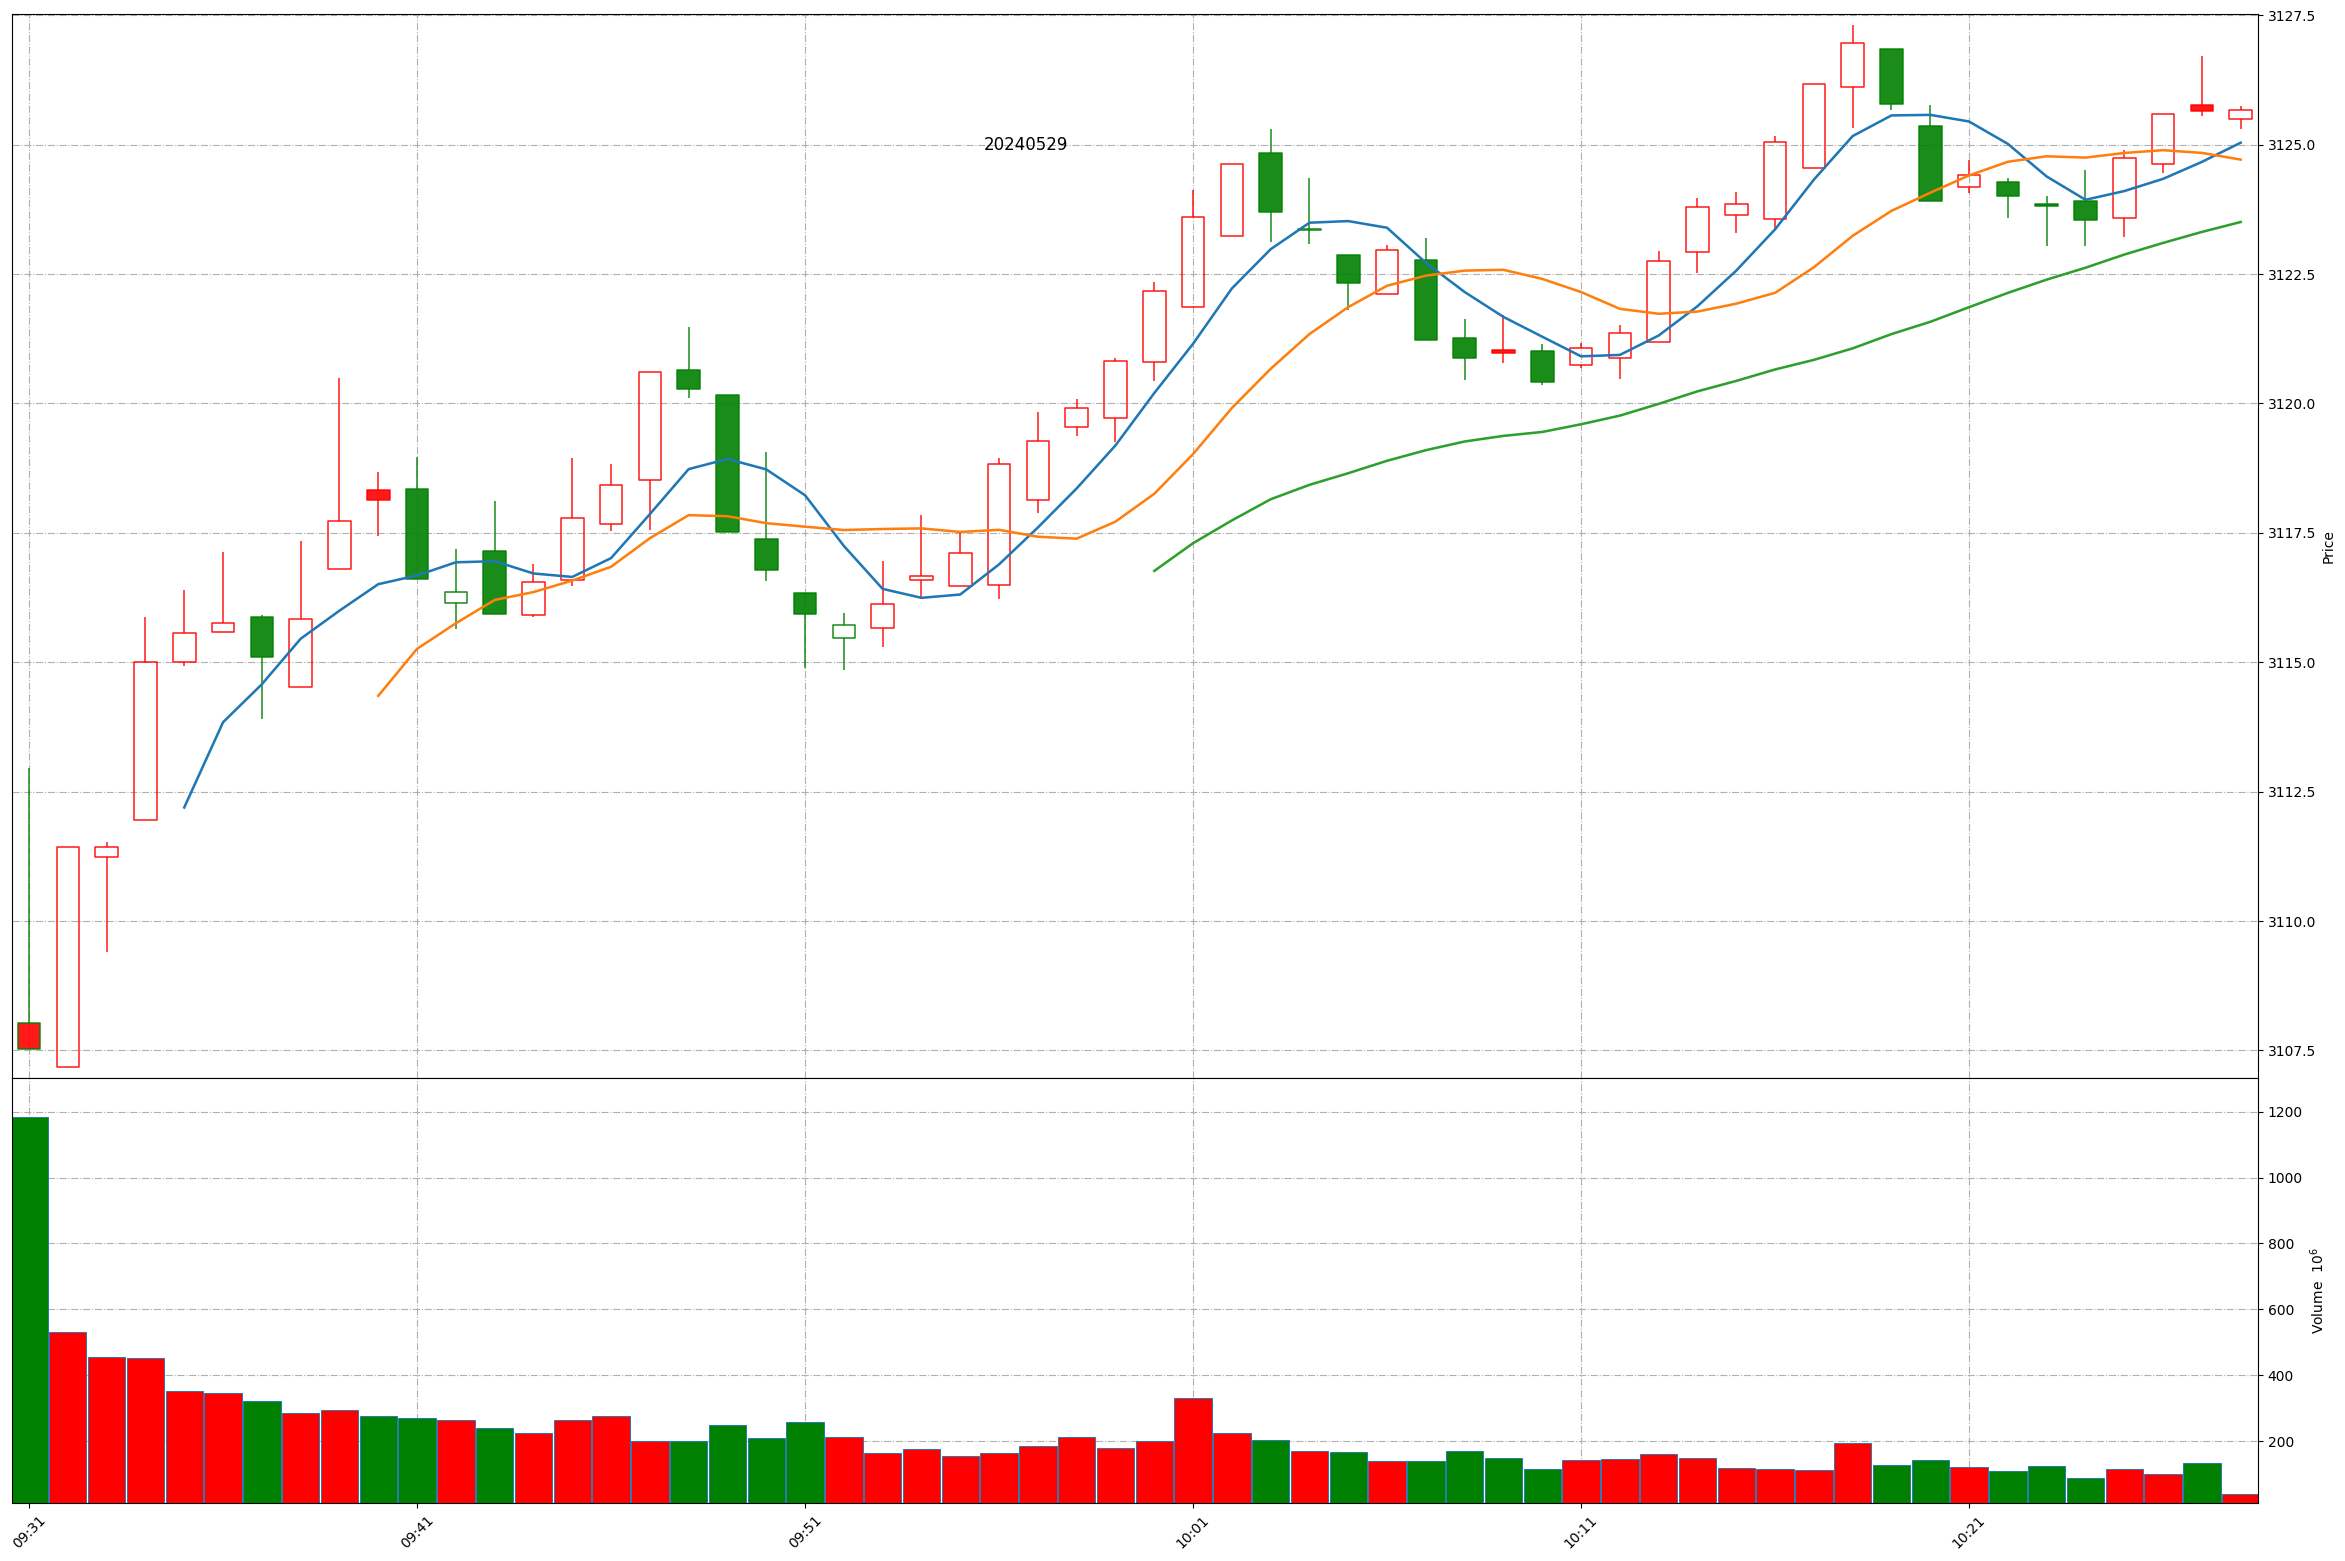
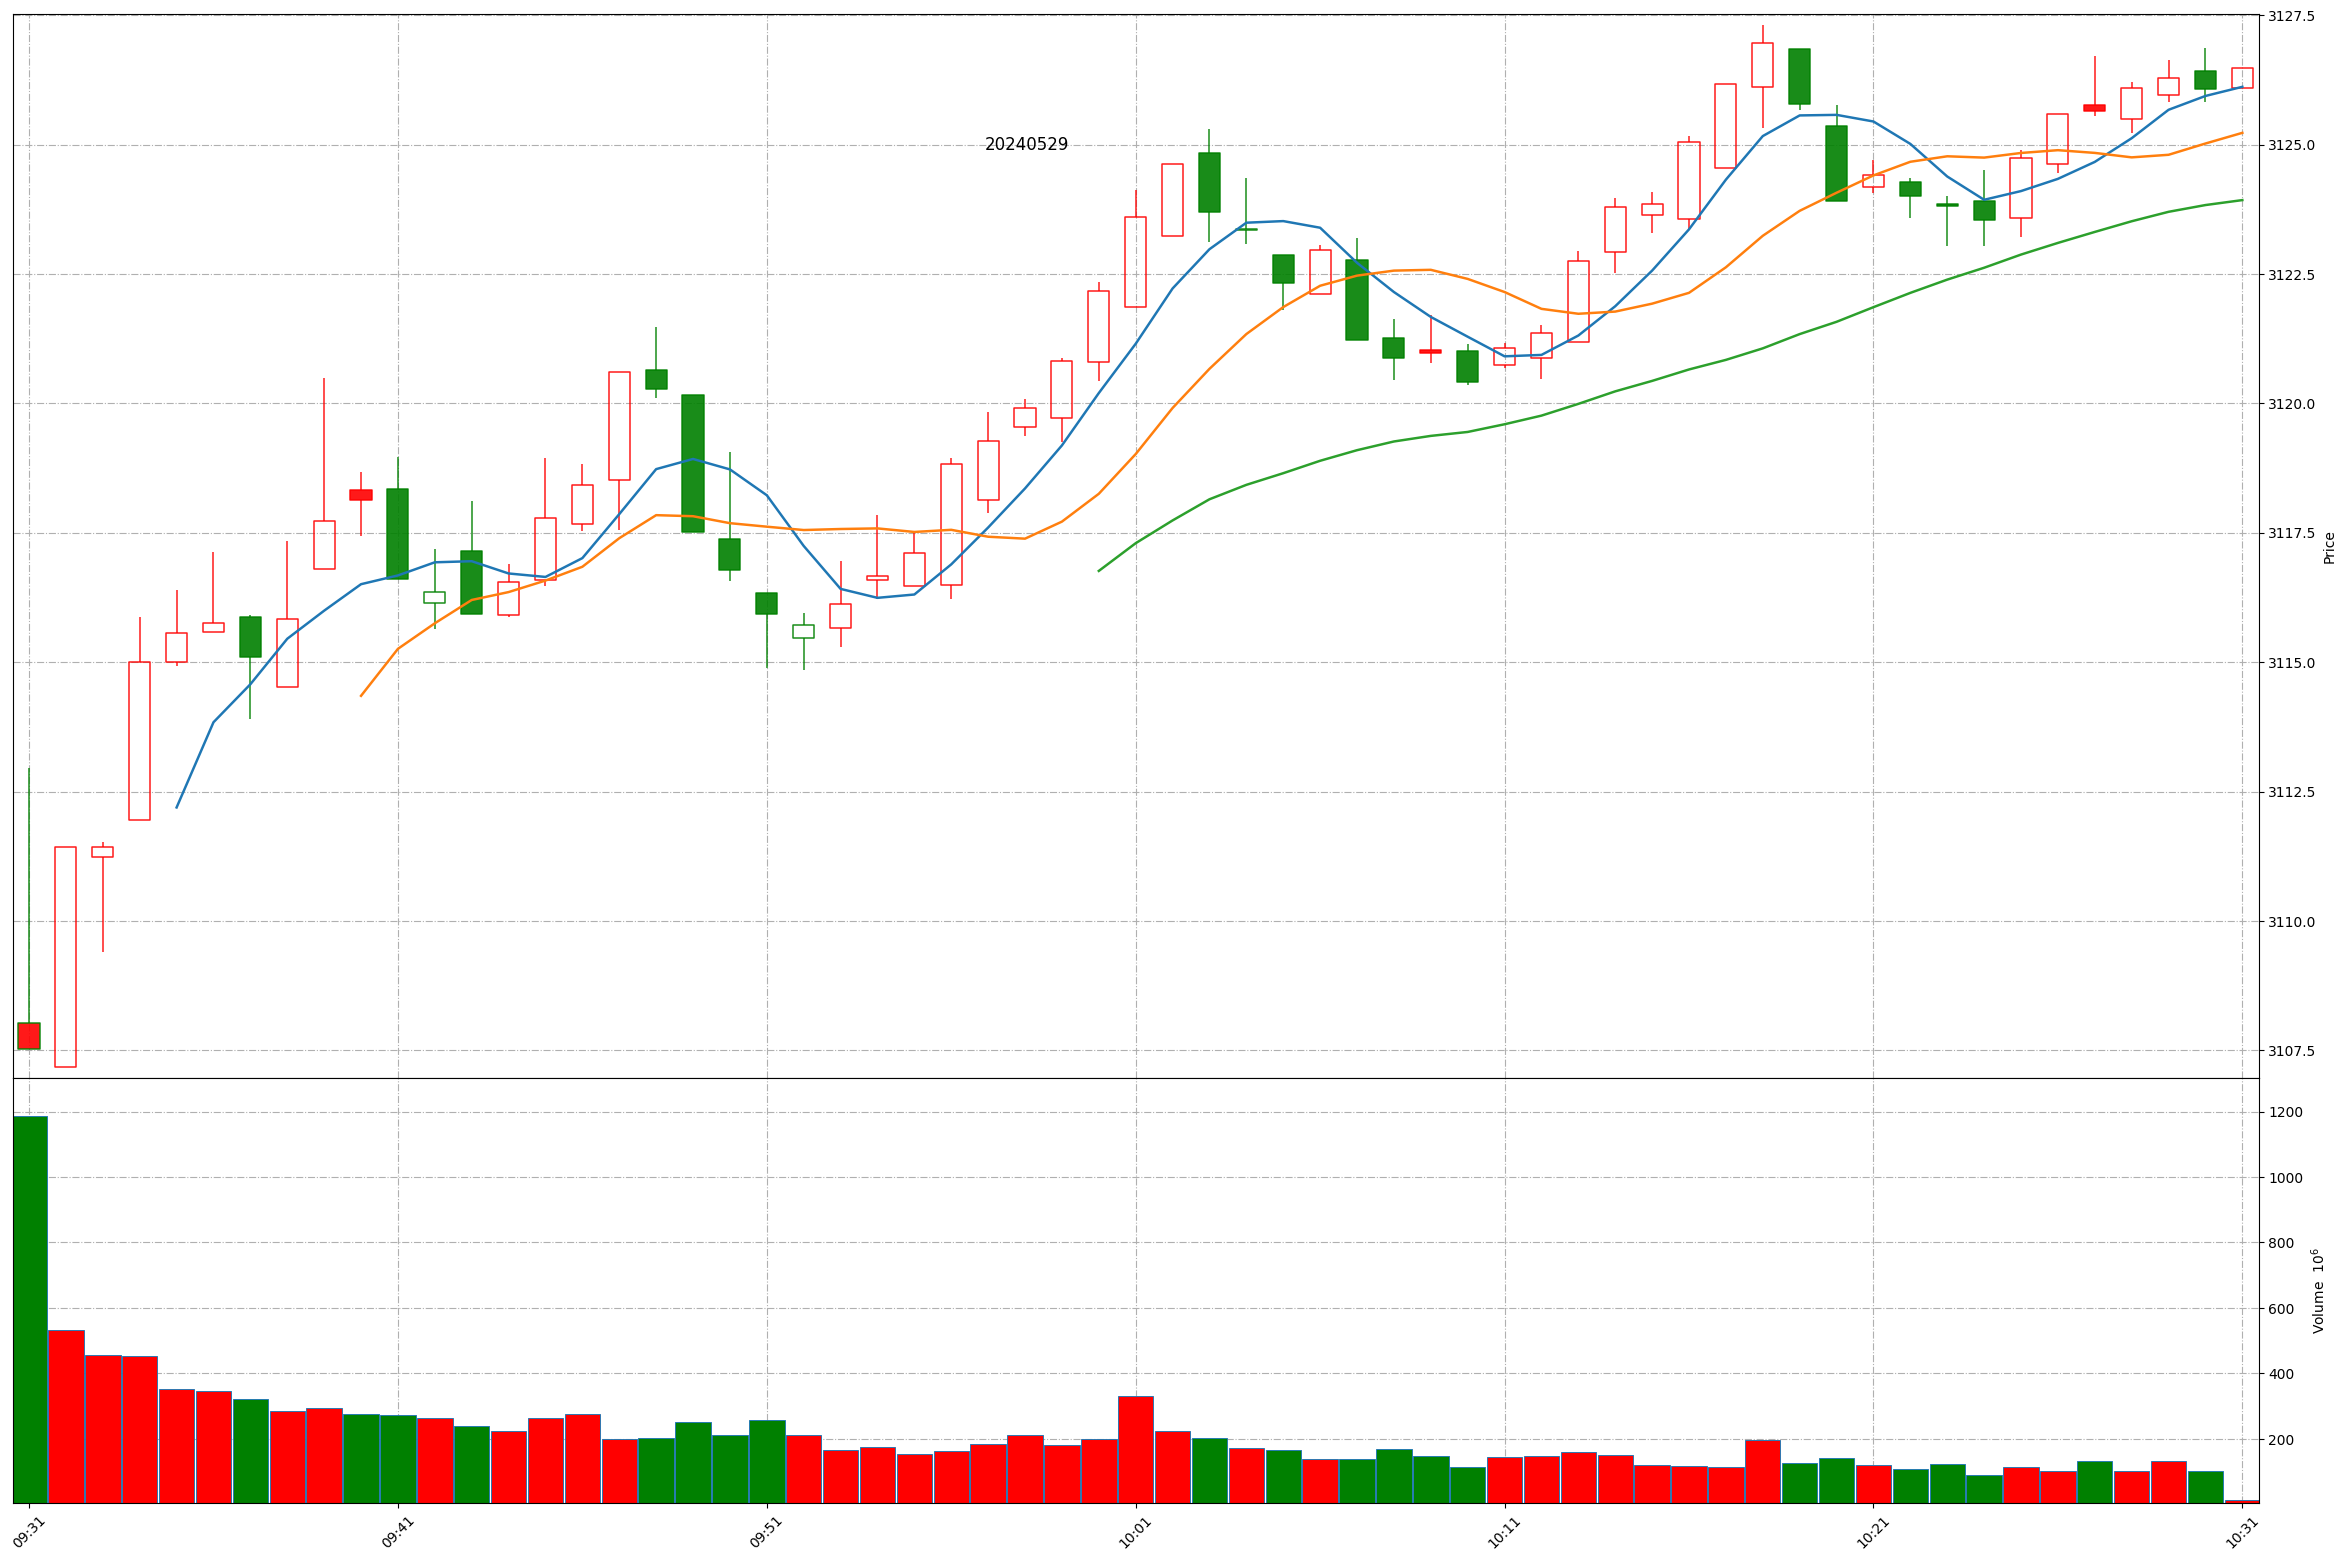
Github action update at 2024-05-29 10:30:37.

diff --git a/README.md b/README.md
@@ -1,11 +1,11 @@
 
 # Daily-A-share-market-quotes 每日 A 股指数（5min 更新）- 20240529
 
-### 上证指数 20240529 10:27
+### 上证指数 20240529 10:30
 ![](./fig/2024/5/20240529-sh000001.png)
 
-### 深证成指 20240529 10:27
+### 深证成指 20240529 10:30
 ![](./fig/2024/5/20240529-sz399001.png)
 
-### 北证50 20240529 10:27
+### 北证50 20240529 10:30
 ![](./fig/2024/5/20240529-bj899050.png)
